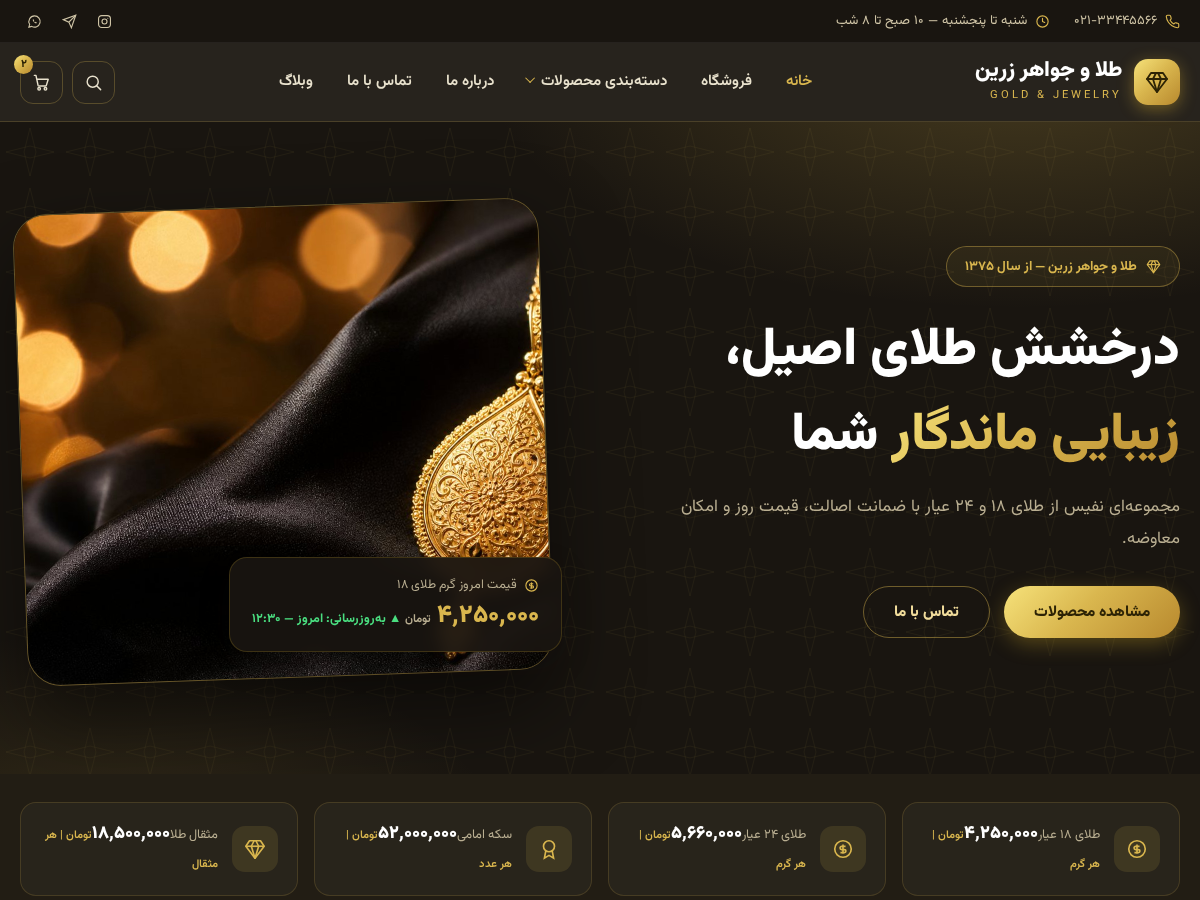
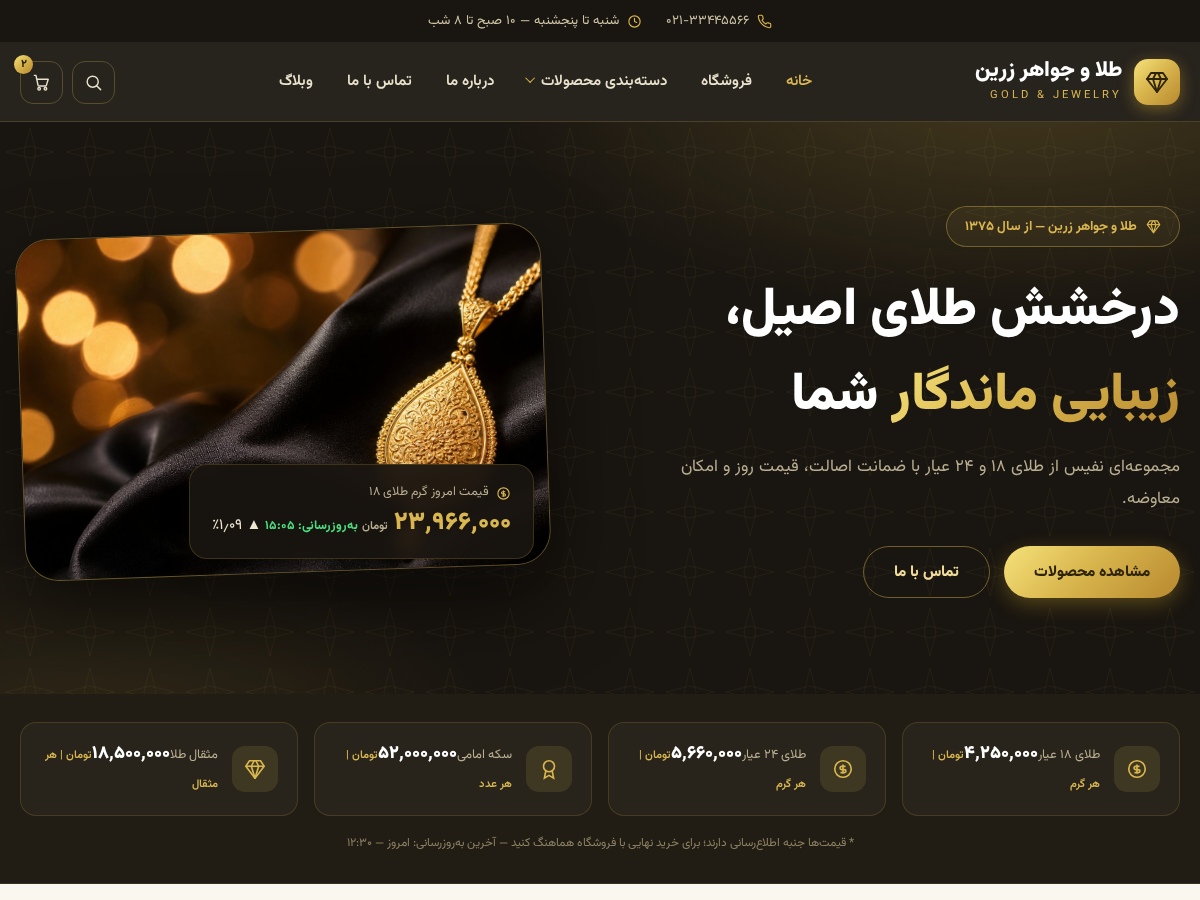
نسخه ۱.۱.۰ — قیمت لحظهای طلا و سکه
- دریافت خودکار قیمت از بازار (tgju.org) با کش موقت قابل تنظیم
- بهروزرسانی زنده قیمتها در مرورگر هر ۹۰ ثانیه بدون رفرش صفحه
- نشان درصد تغییر روزانه (سبز ▲ / قرمز ▼) و نشانگر لحظهای
- تبدیل خودکار ریال به تومان با ارقام فارسی
- مقادیر دستی بهعنوان جایگزین در قطعی ارتباط (تا ۲۴ ساعت داده پشتیبان)
- تنظیمات جدید در سفارشیسازی: فعال/غیرفعالسازی + فاصله بهروزرسانی

diff --git a/style.css b/style.css
@@ -4,7 +4,7 @@ Theme URI: https://github.com/ahoseiny270-create/zarrin-gold-theme
 Author: ahoseiny270-create
 Author URI: https://github.com/ahoseiny270-create
 Description: قالب فروشگاهی لوکس مخصوص طلافروشی و جواهرفی — کاملاً راستچین و فارسی، سازگار با ووکامرس، دارای تیکر قیمت طلا و سکه، بخش معرفی فروشگاه، خدمات، وبلاگ و تنظیمات اختصاصی در سفارشیسازی.
-Version: 1.0.0
+Version: 1.1.0
 Requires at least: 6.0
 Requires PHP: 7.4
 License: GNU General Public License v2 or later
@@ -692,6 +692,31 @@ html.js .reveal.in-view{opacity:1;transform:none}
   .nav-list .sub-menu{
     position:static;opacity:1;visibility:visible;transform:none;
     background:transparent;box-shadow:none;border:0;padding:0 0 0 0;margin:0 0 6px 18px;min-width:0;
+  }
+  .nav-list .sub-menu a{color:#cfc4a6;padding:9px 14px}
+  .nav-list .sub-menu a:hover{background:rgba(255,255,255,.05);color:var(--gold)}
+  .products-grid{grid-template-columns:repeat(2,1fr)}
+  .footer-grid{grid-template-columns:1fr;gap:34px;padding:52px 20px 36px}
+  .hero-media img{height:340px}
+  .float-card{right:12px;bottom:14px}
+  .section{padding:54px 0}
+  .stats-row{grid-template-columns:repeat(3,1fr)}
+  .entry{padding:44px 20px 54px}
+  .comment-list .children{margin-right:22px}
+  .topbar-inner{justify-content:center}
+  .topbar-socials{display:none}
+}
+@media (max-width:480px){
+  .products-grid,.features-grid,.blog-section .posts-grid{grid-template-columns:1fr}
+  .prices-grid{grid-template-columns:1fr}
+  .hide-sm{display:none}
+  .hero-title{font-size:1.75rem}
+  .stats-row{grid-template-columns:1fr 1fr}
+  .post-nav{flex-direction:column}
+  .cta-banner{padding:44px 24px}
+  .author-box{flex-direction:column;text-align:center}
+}
+:transparent;box-shadow:none;border:0;padding:0 0 0 0;margin:0 0 6px 18px;min-width:0;
   }
   .nav-list .sub-menu a{color:#cfc4a6;padding:9px 14px}
   .nav-list .sub-menu a:hover{background:rgba(255,255,255,.05);color:var(--gold)}

diff --git a/assets/js/main.js b/assets/js/main.js
@@ -107,6 +107,35 @@
 		});
 	}
 
+	/* --- بهروزرسانی لحظهای قیمت طلا --- */
+	if (window.zarrinLive && window.zarrinLive.ajax && window.zarrinLive.enabled && document.querySelector('[data-live-item]')) {
+		var refreshPrices = function () {
+			if (!window.fetch) return;
+			fetch(window.zarrinLive.ajax + '?action=zarrin_live_prices', { cache: 'no-store' })
+				.then(function (r) { return r.json(); })
+				.then(function (res) {
+					if (!res || !res.success || !res.data || !res.data.items) return;
+					var items = res.data.items;
+					Object.keys(items).forEach(function (key) {
+						document.querySelectorAll('[data-live-item="' + key + '"]').forEach(function (card) {
+							var val = card.querySelector('.live-value');
+							if (val && items[key].formatted) {
+								val.textContent = items[key].formatted;
+								card.classList.add('flash');
+								window.setTimeout(function () { card.classList.remove('flash'); }, 1300);
+							}
+							var ch = card.querySelector('.live-change');
+							if (ch) ch.innerHTML = items[key].badge || '';
+						});
+					});
+					var updated = document.querySelector('.live-updated');
+					if (updated && res.data.updated) updated.textContent = res.data.updated;
+				})
+				.catch(function () { /* خطا: قیمت فعلی حفظ میشود */ });
+		};
+		window.setInterval(refreshPrices, Math.max(30, parseInt(window.zarrinLive.interval, 10) || 90) * 1000);
+	}
+
 	/* --- بستن منو با کلیک روی لینکها (در موبایل) --- */
 	document.querySelectorAll('.main-nav a').forEach(function (link) {
 		link.addEventListener('click', function () {

diff --git a/functions.php b/functions.php
@@ -9,7 +9,7 @@ if ( ! defined( 'ABSPATH' ) ) {
 	exit;
 }
 
-define( 'ZARRIN_VERSION', '1.0.0' );
+define( 'ZARRIN_VERSION', '1.1.0' );
 
 /* =========================================================
  * ۱) راهاندازی قالب
@@ -69,7 +69,7 @@ function zarrin_setup() {
 add_action( 'after_setup_theme', 'zarrin_setup' );
 
 /* =========================================================
- * ۲) محتوا عرض پست و خلاصه
+ * ۲) خلاصه نوشته
  * ======================================================= */
 function zarrin_excerpt_length( $length ) {
 	return 26;
@@ -115,6 +115,17 @@ function zarrin_assets() {
 
 	wp_enqueue_script( 'zarrin-main', get_template_directory_uri() . '/assets/js/main.js', array(), ZARRIN_VERSION, true );
 
+	// اطلاعات لازم برای بهروزرسانی لحظهای قیمتها.
+	wp_localize_script(
+		'zarrin-main',
+		'zarrinLive',
+		array(
+			'ajax'     => admin_url( 'admin-ajax.php' ),
+			'interval' => 90,
+			'enabled'  => zarrin_live_enabled(),
+		)
+	);
+
 	if ( is_singular() && comments_open() && get_option( 'thread_comments' ) ) {
 		wp_enqueue_script( 'comment-reply' );
 	}
@@ -148,6 +159,16 @@ function zarrin_money( $value ) {
 /** خواندن تنظیم سفارشیسازی */
 function zarrin_get( $key, $default = '' ) {
 	return get_theme_mod( $key, $default );
+}
+
+/** بررسی صحتی چکباکس */
+function zarrin_sanitize_checkbox( $checked ) {
+	return ( isset( $checked ) && true == $checked ) ? true : false;
+}
+
+/** آیا دریافت خودکار قیمت فعال است؟ */
+function zarrin_live_enabled() {
+	return (bool) zarrin_get( 'zarrin_live_enable', true );
 }
 
 /** آیکونهای SVG قالب */
@@ -230,7 +251,163 @@ function zarrin_post_card() {
 }
 
 /* =========================================================
- * ۶) ووکامرس — اضافات
+ * ۶) قیمت لحظهای طلا و سکه
+ * ======================================================= */
+
+/**
+ * دریافت قیمتهای لحظهای از TGJU و ذخیره در کش موقت.
+ * قیمتها از API عمومی tgju.org به ریال دریافت و به تومان تبدیل میشوند.
+ *
+ * @return bool موفقیت دریافت.
+ */
+function zarrin_refresh_live_prices() {
+
+	// قفل کوتاه برای جلوگیری از درخواستهای همزمان.
+	if ( get_transient( 'zarrin_live_prices_lock' ) ) {
+		return false;
+	}
+	set_transient( 'zarrin_live_prices_lock', 1, 45 );
+
+	$response = wp_remote_get(
+		'https://call1.tgju.org/ajax.json',
+		array(
+			'timeout'    => 10,
+			'user-agent' => 'Mozilla/5.0 (ZarrinTheme/' . ZARRIN_VERSION . ')',
+		)
+	);
+
+	if ( is_wp_error( $response ) || 200 !== (int) wp_remote_retrieve_response_code( $response ) ) {
+		return false;
+	}
+
+	$body = json_decode( wp_remote_retrieve_body( $response ), true );
+	if ( empty( $body['current'] ) || ! is_array( $body['current'] ) ) {
+		return false;
+	}
+
+	$map  = array( 'geram18', 'geram24', 'sekee', 'mesghal' );
+	$keys = array(
+		'geram18' => 'p18',
+		'geram24' => 'p24',
+		'sekee'   => 'coin',
+		'mesghal' => 'mesghal',
+	);
+
+	$items = array();
+	foreach ( $map as $key ) {
+		if ( isset( $body['current'][ $key ]['p'] ) ) {
+			$rial = (float) str_replace( ',', '', (string) $body['current'][ $key ]['p'] );
+			if ( $rial > 0 ) {
+				$items[ $keys[ $key ] ] = array(
+					'toman' => $rial / 10, // تبدیل ریال به تومان.
+					'change'=> isset( $body['current'][ $key ]['dp'] ) ? (float) str_replace( ',', '', (string) $body['current'][ $key ]['dp'] ) : 0,
+				);
+			}
+		}
+	}
+
+	if ( count( $items ) < 2 ) {
+		return false;
+	}
+
+	$data = array(
+		'items'   => $items,
+		'updated' => date_i18n( 'H:i' ),
+		'time'    => time(),
+	);
+
+	$interval = max( 1, (int) zarrin_get( 'zarrin_live_interval', 10 ) );
+	set_transient( 'zarrin_live_prices', $data, MINUTE_IN_SECONDS * $interval );
+	set_transient( 'zarrin_live_prices_last', $data, DAY_IN_SECONDS ); // نسخه پشتیبان تا ۲۴ ساعت.
+
+	return true;
+}
+
+/**
+ * دادههای قیمت برای نمایش (لحظهای یا دستی).
+ *
+ * @return array
+ */
+function zarrin_get_prices() {
+
+	$live = get_transient( 'zarrin_live_prices' );
+
+	// اگر کش خالی و حالت لحظهای فعال است، یکبار تلاش برای دریافت.
+	if ( ! $live && zarrin_live_enabled() ) {
+		zarrin_refresh_live_prices();
+		$live = get_transient( 'zarrin_live_prices' );
+	}
+
+	// اگر باز هم خالی بود، از آخرین داده معتبر (تا ۲۴ ساعت) استفاده کن.
+	if ( ! $live ) {
+		$live = get_transient( 'zarrin_live_prices_last' );
+	}
+
+	$manual = array(
+		'p18'     => zarrin_get( 'zarrin_price_18', '23966000' ),
+		'p24'     => zarrin_get( 'zarrin_price_24', '31954000' ),
+		'coin'    => zarrin_get( 'zarrin_price_coin', '237010000' ),
+		'mesghal' => zarrin_get( 'zarrin_price_mesghal', '103822000' ),
+	);
+
+	$prices = array(
+		'_live'    => (bool) $live,
+		'_updated' => ( $live && ! empty( $live['updated'] ) ) ? $live['updated'] : zarrin_get( 'zarrin_price_updated', '۱۲:۳۰' ),
+	);
+
+	foreach ( $manual as $key => $fallback ) {
+		$entry = array(
+			'value'  => is_numeric( $fallback ) ? (float) $fallback : $fallback,
+			'change' => null,
+		);
+		if ( $live && isset( $live['items'][ $key ] ) ) {
+			$entry['value']  = $live['items'][ $key ]['toman'];
+			$entry['change'] = isset( $live['items'][ $key ]['change'] ) ? $live['items'][ $key ]['change'] : 0;
+		}
+		$prices[ $key ] = $entry;
+	}
+
+	return $prices;
+}
+
+/** نشان درصد تغییر (سبز/قرمز) */
+function zarrin_change_badge( $dp ) {
+	if ( null === $dp || '' === $dp || ! is_numeric( $dp ) ) {
+		return '';
+	}
+	$dp    = (float) $dp;
+	$dir   = $dp > 0 ? 'up' : ( $dp < 0 ? 'down' : 'flat' );
+	$arrow = 'up' === $dir ? '▲' : ( 'down' === $dir ? '▼' : '◆' );
+	$num   = number_format( abs( $dp ), 2, '٫', '' );
+	$num   = rtrim( rtrim( $num, '0' ), '٫' );
+	return '<span class="p-change ' . esc_attr( $dir ) . '">' . esc_html( $arrow . ' ' . zarrin_fa_digits( $num ) . '٪' ) . '</span>';
+}
+
+/** خروجی AJAX برای بهروزرسانی لحظهای در مرورگر */
+function zarrin_ajax_live_prices() {
+
+	$data  = zarrin_get_prices();
+	$items = array();
+	foreach ( array( 'p18', 'p24', 'coin', 'mesghal' ) as $key ) {
+		$items[ $key ] = array(
+			'formatted' => zarrin_money( $data[ $key ]['value'] ),
+			'badge'     => zarrin_change_badge( $data[ $key ]['change'] ),
+		);
+	}
+
+	wp_send_json_success(
+		array(
+			'items'   => $items,
+			'updated' => $data['_updated'],
+			'live'    => $data['_live'],
+		)
+	);
+}
+add_action( 'wp_ajax_zarrin_live_prices', 'zarrin_ajax_live_prices' );
+add_action( 'wp_ajax_nopriv_zarrin_live_prices', 'zarrin_ajax_live_prices' );
+
+/* =========================================================
+ * ۷) ووکامرس — اضافات
  * ======================================================= */
 
 /** شمارنده سبد خرید با آجاکس بهروز شود */
@@ -251,7 +428,7 @@ add_filter(
 );
 
 /* =========================================================
- * ۷) تنظیمات سفارشیسازی (نمایش ← سفارشیسازی)
+ * ۸) تنظیمات سفارشیسازی (نمایش ← سفارشیسازی)
  * ======================================================= */
 function zarrin_customize_register( $wp_customize ) {
 
@@ -263,7 +440,7 @@ function zarrin_customize_register( $wp_customize ) {
 		)
 	);
 
-	/* --- تابع کمکی برای فیلدهای متنی --- */
+	/* --- فیلدهای متنی --- */
 	function zarrin_add_field( $wp_customize, $id, $label, $section, $default = '', $type = 'text', $sanitize = 'sanitize_text_field' ) {
 		$wp_customize->add_setting(
 			$id,
@@ -282,7 +459,7 @@ function zarrin_customize_register( $wp_customize ) {
 		);
 	}
 
-	/* --- تابع کمکی برای فیلد تصویر --- */
+	/* --- فیلد تصویر --- */
 	function zarrin_add_image( $wp_customize, $id, $label, $section ) {
 		$wp_customize->add_setting(
 			$id,
@@ -352,14 +529,53 @@ function zarrin_customize_register( $wp_customize ) {
 		array(
 			'title'       => 'قیمت طلا و سکه',
 			'panel'       => 'zarrin_panel',
-			'description' => 'قیمتها را عددی وارد کنید (مثلاً 4250000) تا با جداکننده هزارگان نمایش داده شوند. این قیمتها دستی بهروزرسانی میشوند.',
+			'description' => 'بهصورت پیشفرض قیمتها بهصورت خودکار و لحظهای از بازار طلا (tgju.org) دریافت و نمایش داده میشوند. مقادیر دستی فقط وقتی استفاده میشوند که دریافت خودکار غیرفعال باشد یا ارتباط برقرار نشود. اعداد را تومان و بدون جداکننده وارد کنید.',
 		)
 	);
-	zarrin_add_field( $wp_customize, 'zarrin_price_18', 'قیمت گرم طلای ۱۸ عیار (تومان)', 'zarrin_prices', '4250000' );
-	zarrin_add_field( $wp_customize, 'zarrin_price_24', 'قیمت گرم طلای ۲۴ عیار (تومان)', 'zarrin_prices', '5660000' );
-	zarrin_add_field( $wp_customize, 'zarrin_price_coin', 'قیمت سکه امامی (تومان)', 'zarrin_prices', '52000000' );
-	zarrin_add_field( $wp_customize, 'zarrin_price_mesghal', 'قیمت مثقال طلا (تومان)', 'zarrin_prices', '18500000' );
-	zarrin_add_field( $wp_customize, 'zarrin_price_updated', 'زمان آخرین بهروزرسانی', 'zarrin_prices', 'امروز — ۱۲:۳۰' );
+
+	$wp_customize->add_setting(
+		'zarrin_live_enable',
+		array(
+			'default'           => true,
+			'sanitize_callback' => 'zarrin_sanitize_checkbox',
+		)
+	);
+	$wp_customize->add_control(
+		'zarrin_live_enable',
+		array(
+			'label'   => 'دریافت خودکار قیمت از بازار (لحظهای)',
+			'section' => 'zarrin_prices',
+			'type'    => 'checkbox',
+		)
+	);
+
+	$wp_customize->add_setting(
+		'zarrin_live_interval',
+		array(
+			'default'           => 10,
+			'sanitize_callback' => 'absint',
+		)
+	);
+	$wp_customize->add_control(
+		'zarrin_live_interval',
+		array(
+			'label'       => 'فاصله بهروزرسانی سرور (دقیقه)',
+			'description' => 'پیشنهاد: ۵ تا ۱۵ دقیقه. مرورگر بازدیدکنندگان هر ۹۰ ثانیه آخرین قیمت کششده را میگیرد.',
+			'section'     => 'zarrin_prices',
+			'type'        => 'number',
+			'input_attrs' => array(
+				'min'  => 1,
+				'max'  => 120,
+				'step' => 1,
+			),
+		)
+	);
+
+	zarrin_add_field( $wp_customize, 'zarrin_price_18', 'قیمت دستی گرم طلای ۱۸ عیار (تومان)', 'zarrin_prices', '23966000' );
+	zarrin_add_field( $wp_customize, 'zarrin_price_24', 'قیمت دستی گرم طلای ۲۴ عیار (تومان)', 'zarrin_prices', '31954000' );
+	zarrin_add_field( $wp_customize, 'zarrin_price_coin', 'قیمت دستی سکه امامی (تومان)', 'zarrin_prices', '237010000' );
+	zarrin_add_field( $wp_customize, 'zarrin_price_mesghal', 'قیمت دستی مثقال طلا (تومان)', 'zarrin_prices', '103822000' );
+	zarrin_add_field( $wp_customize, 'zarrin_price_updated', 'زمان دستی (فقط وقتی دریافت خودکار خاموش است)', 'zarrin_prices', '۱۲:۳۰' );
 
 	/* ============ بخش: درباره ما ============ */
 	$wp_customize->add_section(

diff --git a/front-page.php b/front-page.php
@@ -41,10 +41,12 @@ if ( ! $zarrin_btn2_url ) {
 			<div class="frame">
 				<img src="<?php echo esc_url( $zarrin_hero_img ); ?>" alt="<?php echo esc_attr( get_bloginfo( 'name' ) ); ?>" loading="eager">
 			</div>
-			<div class="float-card">
-				<span class="fc-label"><?php zarrin_icon_e( 'coin', 15 ); ?>قیمت امروز گرم طلای ۱۸</span>
-				<span class="fc-value"><?php echo esc_html( zarrin_money( zarrin_get( 'zarrin_price_18', '4250000' ) ) ); ?> <small>تومان</small></span>
-				<span class="fc-badge">▲ بهروزرسانی: <?php echo esc_html( zarrin_get( 'zarrin_price_updated', 'امروز — ۱۲:۳۰' ) ); ?></span>
+			<?php $zarrin_hero_p18 = zarrin_get_prices(); ?>
+			<div class="float-card" data-live-item="p18">
+				<span class="fc-label"><?php zarrin_icon_e( 'coin', 15 ); ?>قیمت امروز گرم طلای ۱۸<?php if ( $zarrin_hero_p18['_live'] ) : ?><span class="live-dot" title="لحظهای"></span><?php endif; ?></span>
+				<span class="fc-value live-value"><?php echo esc_html( zarrin_money( $zarrin_hero_p18['p18']['value'] ) ); ?> <small>تومان</small></span>
+				<span class="fc-badge">بهروزرسانی: <span class="live-updated"><?php echo esc_html( $zarrin_hero_p18['_updated'] ); ?></span></span>
+				<span class="live-change"><?php echo zarrin_change_badge( $zarrin_hero_p18['p18']['change'] ); // phpcs:ignore ?></span>
 			</div>
 		</div>
 	</div>
